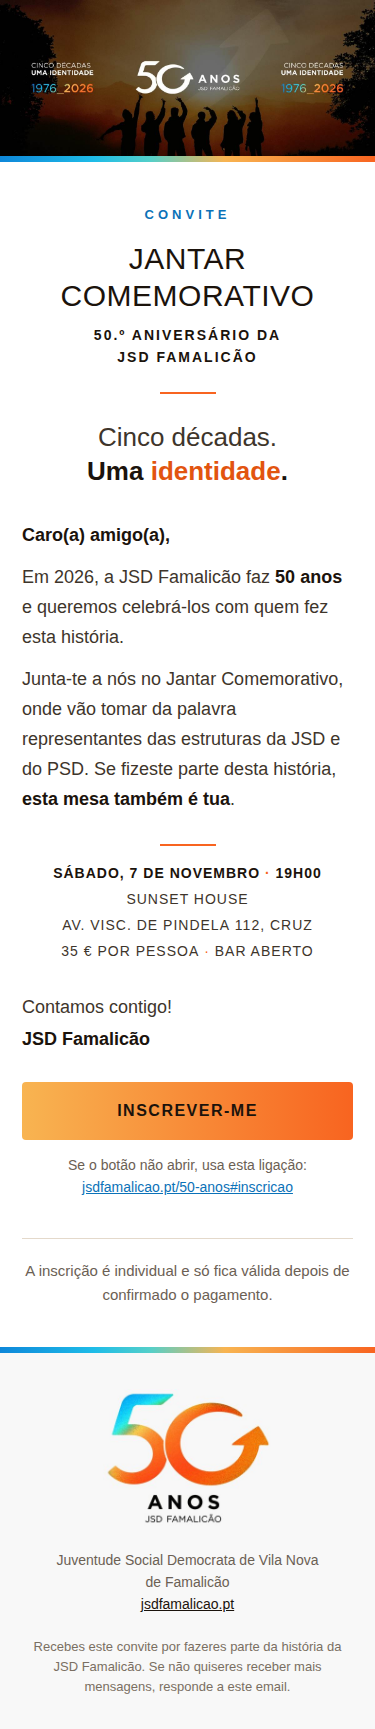
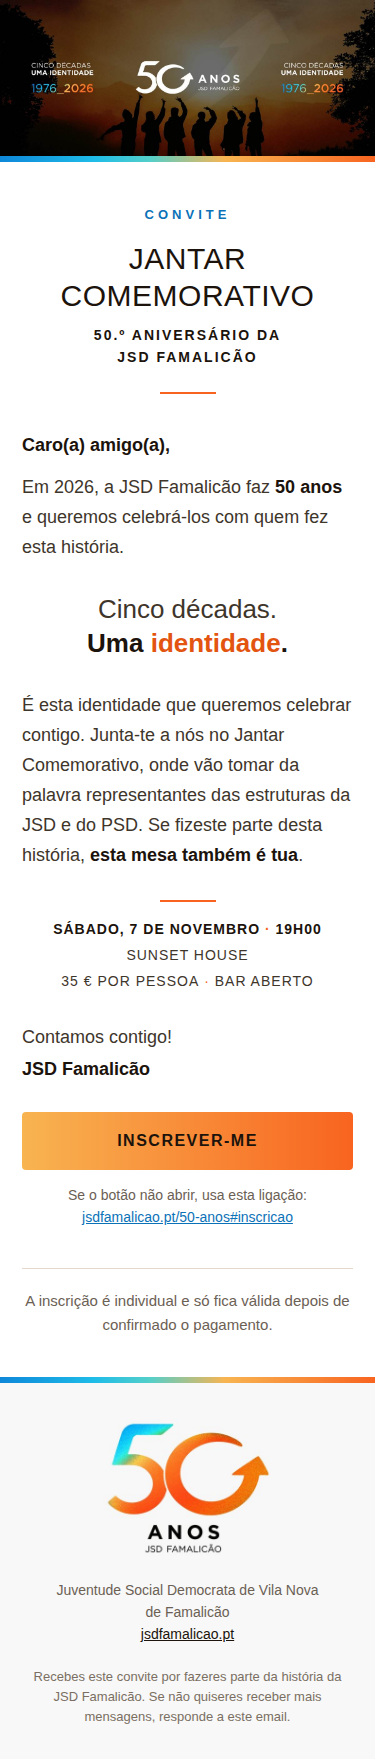
Email: v3/v4 sem morada e com o slogan a meio do texto
Claude-Session: https://claude.ai/code/session_015mwyiP4waEoG1anDPcCGSk

diff --git a/email/jsd-50-anos/v4-convite-institucional.html b/email/jsd-50-anos/v4-convite-institucional.html
@@ -77,16 +77,16 @@
             </td>
           </tr>
           <tr>
-            <td class="px t-lead" align="center" style="padding:26px 24px 0px 24px; font-family:Montserrat,'Helvetica Neue',Helvetica,Arial,sans-serif; font-size:24px; line-height:32px; font-weight:300; color:#3E352B; text-align:center;">Cinco décadas.<br><strong style="font-weight:800; color:#1B130C;">Uma <span style="color:#E2540F;">identidade</span>.</strong></td>
-          </tr>
-          <tr>
-            <td class="px t-corpo" align="left" style="padding:32px 24px 0px 24px; font-family:Montserrat,'Helvetica Neue',Helvetica,Arial,sans-serif; font-size:16px; line-height:27px; font-weight:700; color:#1B130C; text-align:left;">Estimado(a) convidado(a),</td>
+            <td class="px t-corpo" align="left" style="padding:36px 24px 0px 24px; font-family:Montserrat,'Helvetica Neue',Helvetica,Arial,sans-serif; font-size:16px; line-height:27px; font-weight:700; color:#1B130C; text-align:left;">Estimado(a) convidado(a),</td>
           </tr>
           <tr>
             <td class="px t-corpo" align="left" style="padding:12px 24px 0px 24px; font-family:Montserrat,'Helvetica Neue',Helvetica,Arial,sans-serif; font-size:16px; line-height:27px; color:#3E352B; text-align:left;">Em 2026, a JSD Famalicão completa <strong style="color:#1B130C;">50&nbsp;anos</strong>. É com muito gosto que o(a) convidamos para o Jantar Comemorativo que assinala a data.</td>
           </tr>
           <tr>
-            <td class="px t-corpo" align="left" style="padding:12px 24px 0px 24px; font-family:Montserrat,'Helvetica Neue',Helvetica,Arial,sans-serif; font-size:16px; line-height:27px; color:#3E352B; text-align:left;">Sob o mote <strong style="color:#1B130C;">«Cinco décadas. Uma&nbsp;identidade»</strong>, celebraremos o legado de várias gerações. Usarão da palavra representantes das estruturas da JSD e do PSD. Será uma honra contar com a sua presença.</td>
+            <td class="px t-lead" align="center" style="padding:30px 24px 18px 24px; font-family:Montserrat,'Helvetica Neue',Helvetica,Arial,sans-serif; font-size:24px; line-height:32px; font-weight:300; color:#3E352B; text-align:center;">Cinco décadas.<br><strong style="font-weight:800; color:#1B130C;">Uma <span style="color:#E2540F;">identidade</span>.</strong></td>
+          </tr>
+          <tr>
+            <td class="px t-corpo" align="left" style="padding:12px 24px 0px 24px; font-family:Montserrat,'Helvetica Neue',Helvetica,Arial,sans-serif; font-size:16px; line-height:27px; color:#3E352B; text-align:left;">É sob este mote que celebraremos o legado de várias gerações. Usarão da palavra representantes das estruturas da JSD e do PSD. Será uma honra contar com a sua presença.</td>
           </tr>
           <tr>
             <td align="center" style="padding:30px 24px 0px 24px;">
@@ -96,7 +96,7 @@
             </td>
           </tr>
           <tr>
-            <td class="px t-dados-v" align="center" style="padding:14px 24px 0px 24px; font-family:Montserrat,'Helvetica Neue',Helvetica,Arial,sans-serif; font-size:13px; line-height:24px; letter-spacing:1.5px; text-transform:uppercase; color:#3E352B; text-align:center;"><span style="font-weight:700; color:#1B130C;">Sábado,&nbsp;7&nbsp;de&nbsp;novembro<span style="color:#F86420;">&nbsp;·&nbsp;</span>19h00</span><br><a href="https://www.google.com/maps/search/?api=1&query=Av.+Visconde+de+Pindela+112,+4770-189+Cruz" style="color:#3E352B; text-decoration:none;">Sunset House<br>Av.&nbsp;Visc.&nbsp;de&nbsp;Pindela&nbsp;112, Cruz</a><br>35&nbsp;€ por pessoa<span style="color:#F86420;">&nbsp;·&nbsp;</span>bar aberto</td>
+            <td class="px t-dados-v" align="center" style="padding:14px 24px 0px 24px; font-family:Montserrat,'Helvetica Neue',Helvetica,Arial,sans-serif; font-size:13px; line-height:24px; letter-spacing:1.5px; text-transform:uppercase; color:#3E352B; text-align:center;"><span style="font-weight:700; color:#1B130C;">Sábado,&nbsp;7&nbsp;de&nbsp;novembro<span style="color:#F86420;">&nbsp;·&nbsp;</span>19h00</span><br><a href="https://www.google.com/maps/search/?api=1&query=Av.+Visconde+de+Pindela+112,+4770-189+Cruz" style="color:#3E352B; text-decoration:none;">Sunset House</a><br>35&nbsp;€ por pessoa<span style="color:#F86420;">&nbsp;·&nbsp;</span>bar aberto</td>
           </tr>
           <tr>
             <td class="px t-corpo" align="left" style="padding:28px 24px 0px 24px; font-family:Montserrat,'Helvetica Neue',Helvetica,Arial,sans-serif; font-size:16px; line-height:27px; color:#3E352B; text-align:left;">Com os melhores cumprimentos,</td>

diff --git a/email/jsd-50-anos/v3-convite-geral.html b/email/jsd-50-anos/v3-convite-geral.html
@@ -77,16 +77,16 @@
             </td>
           </tr>
           <tr>
-            <td class="px t-lead" align="center" style="padding:26px 24px 0px 24px; font-family:Montserrat,'Helvetica Neue',Helvetica,Arial,sans-serif; font-size:24px; line-height:32px; font-weight:300; color:#3E352B; text-align:center;">Cinco décadas.<br><strong style="font-weight:800; color:#1B130C;">Uma <span style="color:#E2540F;">identidade</span>.</strong></td>
-          </tr>
-          <tr>
-            <td class="px t-corpo" align="left" style="padding:32px 24px 0px 24px; font-family:Montserrat,'Helvetica Neue',Helvetica,Arial,sans-serif; font-size:16px; line-height:27px; font-weight:700; color:#1B130C; text-align:left;">Caro(a) amigo(a),</td>
+            <td class="px t-corpo" align="left" style="padding:36px 24px 0px 24px; font-family:Montserrat,'Helvetica Neue',Helvetica,Arial,sans-serif; font-size:16px; line-height:27px; font-weight:700; color:#1B130C; text-align:left;">Caro(a) amigo(a),</td>
           </tr>
           <tr>
             <td class="px t-corpo" align="left" style="padding:12px 24px 0px 24px; font-family:Montserrat,'Helvetica Neue',Helvetica,Arial,sans-serif; font-size:16px; line-height:27px; color:#3E352B; text-align:left;">Em 2026, a JSD Famalicão faz <strong style="color:#1B130C;">50&nbsp;anos</strong> e queremos celebrá-los com quem fez esta história.</td>
           </tr>
           <tr>
-            <td class="px t-corpo" align="left" style="padding:12px 24px 0px 24px; font-family:Montserrat,'Helvetica Neue',Helvetica,Arial,sans-serif; font-size:16px; line-height:27px; color:#3E352B; text-align:left;">Junta-te a nós no Jantar Comemorativo, onde vão tomar da palavra representantes das estruturas da JSD e do PSD. Se fizeste parte desta história, <strong style="color:#1B130C;">esta mesa também é tua</strong>.</td>
+            <td class="px t-lead" align="center" style="padding:30px 24px 18px 24px; font-family:Montserrat,'Helvetica Neue',Helvetica,Arial,sans-serif; font-size:24px; line-height:32px; font-weight:300; color:#3E352B; text-align:center;">Cinco décadas.<br><strong style="font-weight:800; color:#1B130C;">Uma <span style="color:#E2540F;">identidade</span>.</strong></td>
+          </tr>
+          <tr>
+            <td class="px t-corpo" align="left" style="padding:12px 24px 0px 24px; font-family:Montserrat,'Helvetica Neue',Helvetica,Arial,sans-serif; font-size:16px; line-height:27px; color:#3E352B; text-align:left;">É esta identidade que queremos celebrar contigo. Junta-te a nós no Jantar Comemorativo, onde vão tomar da palavra representantes das estruturas da JSD e do PSD. Se fizeste parte desta história, <strong style="color:#1B130C;">esta mesa também é tua</strong>.</td>
           </tr>
           <tr>
             <td align="center" style="padding:30px 24px 0px 24px;">
@@ -96,7 +96,7 @@
             </td>
           </tr>
           <tr>
-            <td class="px t-dados-v" align="center" style="padding:14px 24px 0px 24px; font-family:Montserrat,'Helvetica Neue',Helvetica,Arial,sans-serif; font-size:13px; line-height:24px; letter-spacing:1.5px; text-transform:uppercase; color:#3E352B; text-align:center;"><span style="font-weight:700; color:#1B130C;">Sábado,&nbsp;7&nbsp;de&nbsp;novembro<span style="color:#F86420;">&nbsp;·&nbsp;</span>19h00</span><br><a href="https://www.google.com/maps/search/?api=1&query=Av.+Visconde+de+Pindela+112,+4770-189+Cruz" style="color:#3E352B; text-decoration:none;">Sunset House<br>Av.&nbsp;Visc.&nbsp;de&nbsp;Pindela&nbsp;112, Cruz</a><br>35&nbsp;€ por pessoa<span style="color:#F86420;">&nbsp;·&nbsp;</span>bar aberto</td>
+            <td class="px t-dados-v" align="center" style="padding:14px 24px 0px 24px; font-family:Montserrat,'Helvetica Neue',Helvetica,Arial,sans-serif; font-size:13px; line-height:24px; letter-spacing:1.5px; text-transform:uppercase; color:#3E352B; text-align:center;"><span style="font-weight:700; color:#1B130C;">Sábado,&nbsp;7&nbsp;de&nbsp;novembro<span style="color:#F86420;">&nbsp;·&nbsp;</span>19h00</span><br><a href="https://www.google.com/maps/search/?api=1&query=Av.+Visconde+de+Pindela+112,+4770-189+Cruz" style="color:#3E352B; text-decoration:none;">Sunset House</a><br>35&nbsp;€ por pessoa<span style="color:#F86420;">&nbsp;·&nbsp;</span>bar aberto</td>
           </tr>
           <tr>
             <td class="px t-corpo" align="left" style="padding:28px 24px 0px 24px; font-family:Montserrat,'Helvetica Neue',Helvetica,Arial,sans-serif; font-size:16px; line-height:27px; color:#3E352B; text-align:left;">Contamos contigo!</td>

diff --git a/email/jsd-50-anos/src/gerar_v3_v4.py b/email/jsd-50-anos/src/gerar_v3_v4.py
@@ -20,7 +20,7 @@ CONVITES = {
         saudacao='Caro(a) amigo(a),',
         paragrafos=[
             f'Em 2026, a JSD Famalicão faz <strong {FORTE}>50&nbsp;anos</strong> e queremos celebrá-los com quem fez esta história.',
-            f'Junta-te a nós no Jantar Comemorativo, onde vão tomar da palavra representantes das estruturas da JSD e do PSD. Se fizeste parte desta história, <strong {FORTE}>esta mesa também é tua</strong>.',
+            f'É esta identidade que queremos celebrar contigo. Junta-te a nós no Jantar Comemorativo, onde vão tomar da palavra representantes das estruturas da JSD e do PSD. Se fizeste parte desta história, <strong {FORTE}>esta mesa também é tua</strong>.',
         ],
         fecho='Contamos contigo!',
         assinatura='JSD Famalicão',
@@ -36,7 +36,7 @@ CONVITES = {
         saudacao='Estimado(a) convidado(a),',
         paragrafos=[
             f'Em 2026, a JSD Famalicão completa <strong {FORTE}>50&nbsp;anos</strong>. É com muito gosto que o(a) convidamos para o Jantar Comemorativo que assinala a data.',
-            f'Sob o mote <strong {FORTE}>«Cinco décadas. Uma&nbsp;identidade»</strong>, celebraremos o legado de várias gerações. Usarão da palavra representantes das estruturas da JSD e do PSD. Será uma honra contar com a sua presença.',
+            f'É sob este mote que celebraremos o legado de várias gerações. Usarão da palavra representantes das estruturas da JSD e do PSD. Será uma honra contar com a sua presença.',
         ],
         fecho='Com os melhores cumprimentos,',
         assinatura='Juventude Social Democrata de Vila Nova de Famalicão',
@@ -68,7 +68,7 @@ def dados():
     ponto = '<span style="color:#F86420;">&nbsp;·&nbsp;</span>'
     return traco(30, 0) + linha(
         f'<span style="font-weight:700; color:{ESCURO};">Sábado,&nbsp;7&nbsp;de&nbsp;novembro{ponto}19h00</span><br>'
-        f'<a href="{MAPA}" style="color:#3E352B; text-decoration:none;">Sunset House<br>Av.&nbsp;Visc.&nbsp;de&nbsp;Pindela&nbsp;112, Cruz</a><br>'
+        f'<a href="{MAPA}" style="color:#3E352B; text-decoration:none;">Sunset House</a><br>'
         f'35&nbsp;€ por pessoa{ponto}bar aberto',
         14, 0, 'font-size:13px; line-height:24px; letter-spacing:1.5px; text-transform:uppercase; color:#3E352B;', 'center', 't-dados-v')
 
@@ -80,10 +80,12 @@ def convite(t):
         for i, n in enumerate(t['notas']))
     corpo = ''.join([
         cabecalho(),
+        linha(t['saudacao'], 36, 0, f'font-size:16px; line-height:27px; font-weight:700; color:{ESCURO};'),
+        linha(t['paragrafos'][0], 12, 0),
+        # slogan a meio do texto, como elemento gráfico; o 2.º parágrafo refere-se a ele
         linha(f'Cinco décadas.<br><strong style="font-weight:800; color:{ESCURO};">Uma <span style="color:#E2540F;">identidade</span>.</strong>',
-              26, 0, 'font-size:24px; line-height:32px; font-weight:300; color:#3E352B;', 'center', 't-lead'),
-        linha(t['saudacao'], 32, 0, f'font-size:16px; line-height:27px; font-weight:700; color:{ESCURO};'),
-        *[linha(p_, 12, 0) for p_ in t['paragrafos']],
+              30, 18, 'font-size:24px; line-height:32px; font-weight:300; color:#3E352B;', 'center', 't-lead'),
+        linha(t['paragrafos'][1], 12, 0),
         dados(),
         linha(t['fecho'], 28, 0),
         linha(t['assinatura'], 2, 0, f'font-size:16px; line-height:25px; font-weight:700; color:{ESCURO};'),
